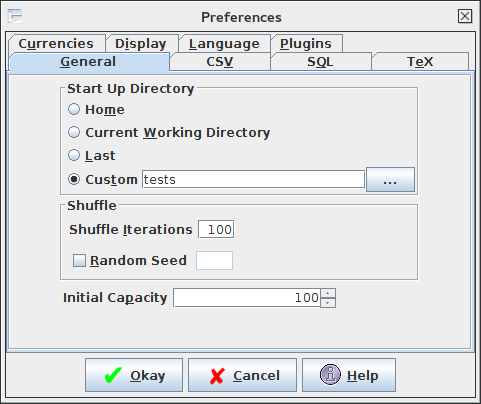
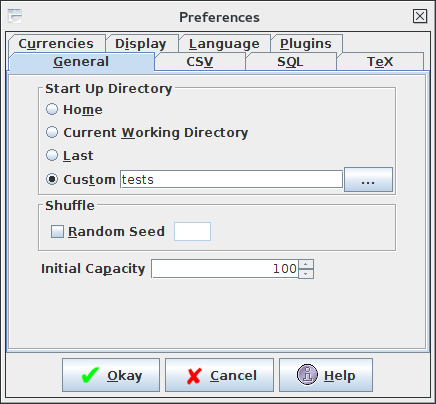
Removed --shuffle-iterations

diff --git a/src/java/gui/PropertiesDialog.java b/src/java/gui/PropertiesDialog.java
@@ -98,15 +98,6 @@ public class PropertiesDialog extends JDialog
       box.setAlignmentX(0);
       shuffleComp.add(box);
 
-      iterationsField = new NonNegativeIntField(100);
-      box.add(resources.createJLabel("preferences.shuffle.iter"), 
-         iterationsField);
-      box.add(iterationsField);
-
-      box = new JPanel(new FlowLayout(FlowLayout.LEFT));
-      box.setAlignmentX(0);
-      shuffleComp.add(box);
-
       hasSeedBox = resources.createJCheckBox("preferences.shuffle",
          "seed", this);
       box.add(hasSeedBox);
@@ -757,8 +748,6 @@ public class PropertiesDialog extends JDialog
 
       currencyListModel = new CurrencyListModel(currencyList, settings);
 
-      iterationsField.setValue(settings.getShuffleIterations());
-
       Long seed = settings.getRandomSeed();
 
       if (seed == null)
@@ -1094,8 +1083,6 @@ public class PropertiesDialog extends JDialog
          settings.setRandomSeed(null);
       }
 
-      settings.setShuffleIterations(iterationsField.getValue());
-
       settings.setHelpSet(helpsetLangBox.getSelectedItem().toString());
       settings.setDictionary(dictLangBox.getSelectedItem().toString());
 
@@ -1131,7 +1118,7 @@ public class PropertiesDialog extends JDialog
    private JFileChooser fileChooser;
 
    private NonNegativeIntField portField, sizeField, cellHeightField,
-      iterationsField, seedField, editorHeightField, editorWidthField;
+      seedField, editorHeightField, editorWidthField;
 
    private NonNegativeIntField[] cellWidthFields;
 

diff --git a/src/java/DatatoolTk.java b/src/java/DatatoolTk.java
@@ -406,7 +406,6 @@ public class DatatoolTk
          (settings.isTeXMappingOn() ?
          "": " ("+getLabel("syntax.default")+".)")));
       System.out.println(getLabelWithValues("syntax.seed", "--seed"));
-      System.out.println(getLabelWithValues("syntax.shuffle_iter", "--shuffle-iterations"));
       System.out.println(getLabelWithValues("syntax.shuffle", "--shuffle"));
       System.out.println(getLabelWithValues("syntax.no_shuffle", "--noshuffle"));
       System.out.println(getLabelWithValues("syntax.sort", "--sort"));
@@ -1246,28 +1245,6 @@ public class DatatoolTk
                     getLabelWithValues("error.syntax.missing_number",
                       args[i-1]));
                }
-            }
-         }
-         else if (args[i].equals("--shuffle-iterations"))
-         {
-            i++;
-
-            if (i == args.length)
-            {
-               throw new InvalidSyntaxException(
-                 getLabelWithValues("error.syntax.missing_number",
-                   args[i-1]));
-            }
-
-            try
-            {
-               settings.setShuffleIterations(Integer.valueOf(args[i]));
-            }
-            catch (NumberFormatException e)
-            {
-               throw new InvalidSyntaxException(
-                 getLabelWithValues("error.syntax.missing_number",
-                   args[i-1]));
             }
          }
          else if (args[i].equals("--shuffle"))

diff --git a/src/java/DatatoolDb.java b/src/java/DatatoolDb.java
@@ -1873,23 +1873,7 @@ out.println("% header block for column "+colIdx);
 
    public void shuffle(Random random)
    {
-      int numRows = data.size();
-      int n = settings.getShuffleIterations();
-
-      for (int i = 0; i < n; i++)
-      {
-         int index1 = random.nextInt(numRows);
-         int index2 = random.nextInt(numRows);
-
-         if (index1 != index2)
-         {
-            DatatoolRow row1 = data.get(index1);
-            DatatoolRow row2 = data.get(index2);
-
-            data.set(index1, row2);
-            data.set(index2, row1);
-         }
-      }
+      Collections.shuffle(data, random);
    }
 
    public Vector<DatatoolHeader> getHeaders()

diff --git a/src/java/DatatoolSettings.java b/src/java/DatatoolSettings.java
@@ -1126,24 +1126,6 @@ public class DatatoolSettings extends Properties
       return seed == null ? new Random() : new Random(seed.longValue());
    }
 
-   public int getShuffleIterations()
-   {
-      try
-      {
-         return Integer.parseInt(getProperty("shuffle.iter"));
-      }
-      catch (Exception e)
-      {
-         setShuffleIterations(100);
-         return 100;
-      }
-   }
-
-   public void setShuffleIterations(int number)
-   {
-      setProperty("shuffle.iter", ""+number);
-   }
-
    public boolean isRedefNewProblemEnabled()
    {
       String prop = getProperty("redefnewprob");
